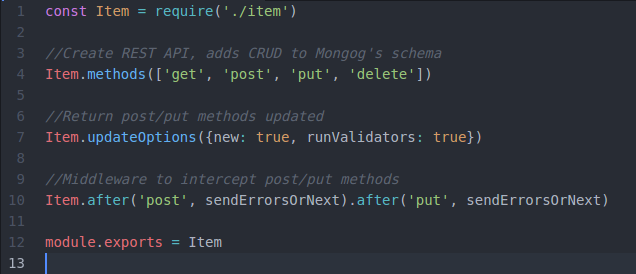
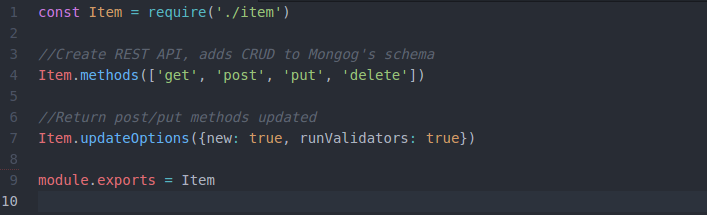
API routes created

diff --git a/myFolder/config/routes.js b/myFolder/config/routes.js
@@ -1,0 +1,12 @@
+const express = require('express')
+
+module.exports = function(server) {
+
+  //API Routes
+  const router = express.Router()
+  server.use('/api', router)
+
+  //Registering API methods in router
+  const itemService = require('../api/itens/itemService')
+  itemService.register(router, '/item')
+}

diff --git a/myFolder/api/itens/itemService.js b/myFolder/api/itens/itemService.js
@@ -6,7 +6,4 @@ Item.methods(['get', 'post', 'put', 'delete'])
 //Return post/put methods updated
 Item.updateOptions({new: true, runValidators: true})
 
-//Middleware to intercept post/put methods
-Item.after('post', sendErrorsOrNext).after('put', sendErrorsOrNext)
-
 module.exports = Item
